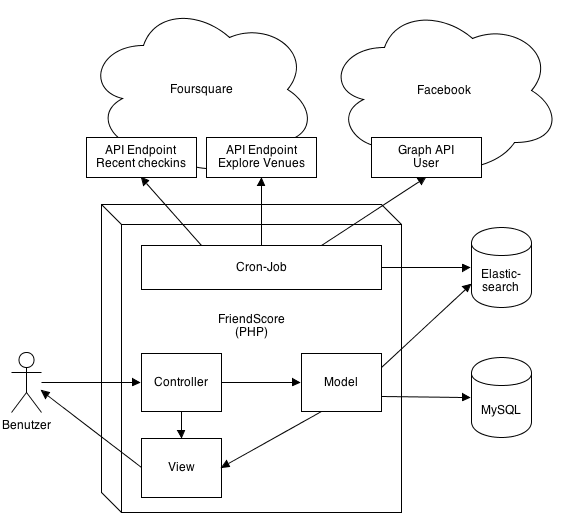
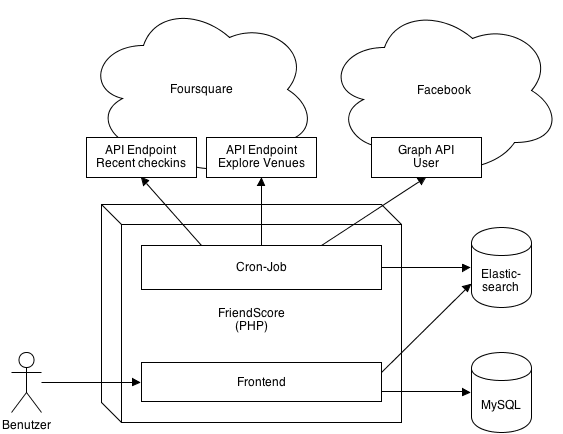
Simplified Systemarchitektur a bit

diff --git a/friendscore.html b/friendscore.html
@@ -1382,7 +1382,7 @@ Die Twitter API bietet enorm viele Daten, was die API schwer verständlich macht
 <div class="chapter">
 <h2>Architektur</h2>
 
-<h3>Übersicht</h3>
+<h3>Systemarchitektur</h3>
 
 <figure id="figure-systemarchitektur" class="inline">
     <img src="images/systemarchitektur.png"/>
